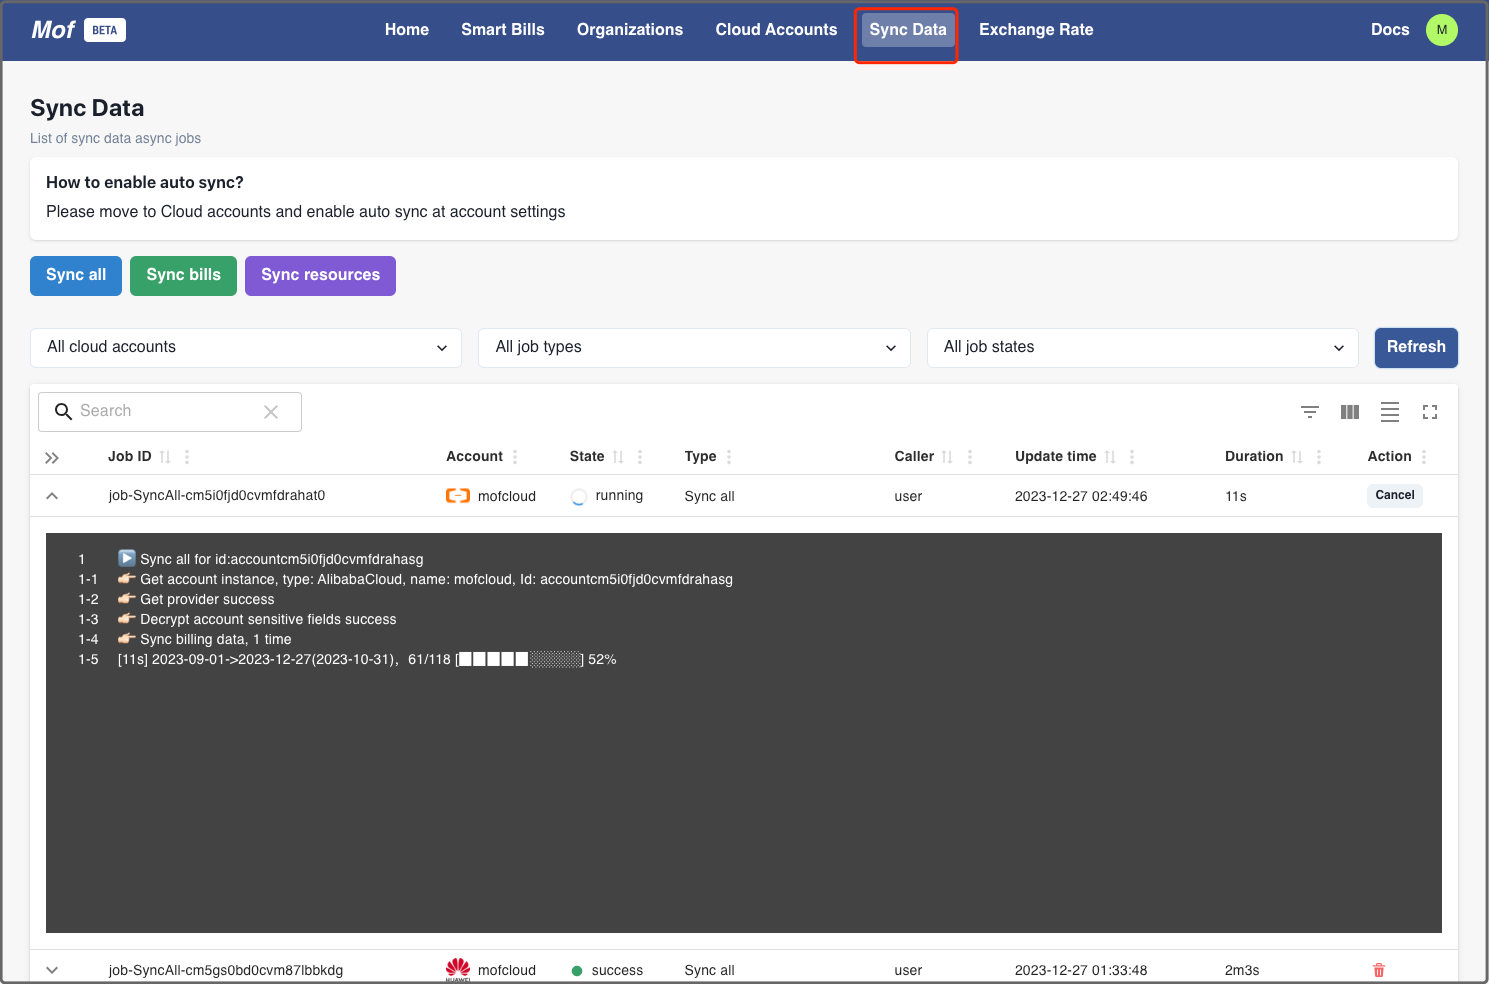
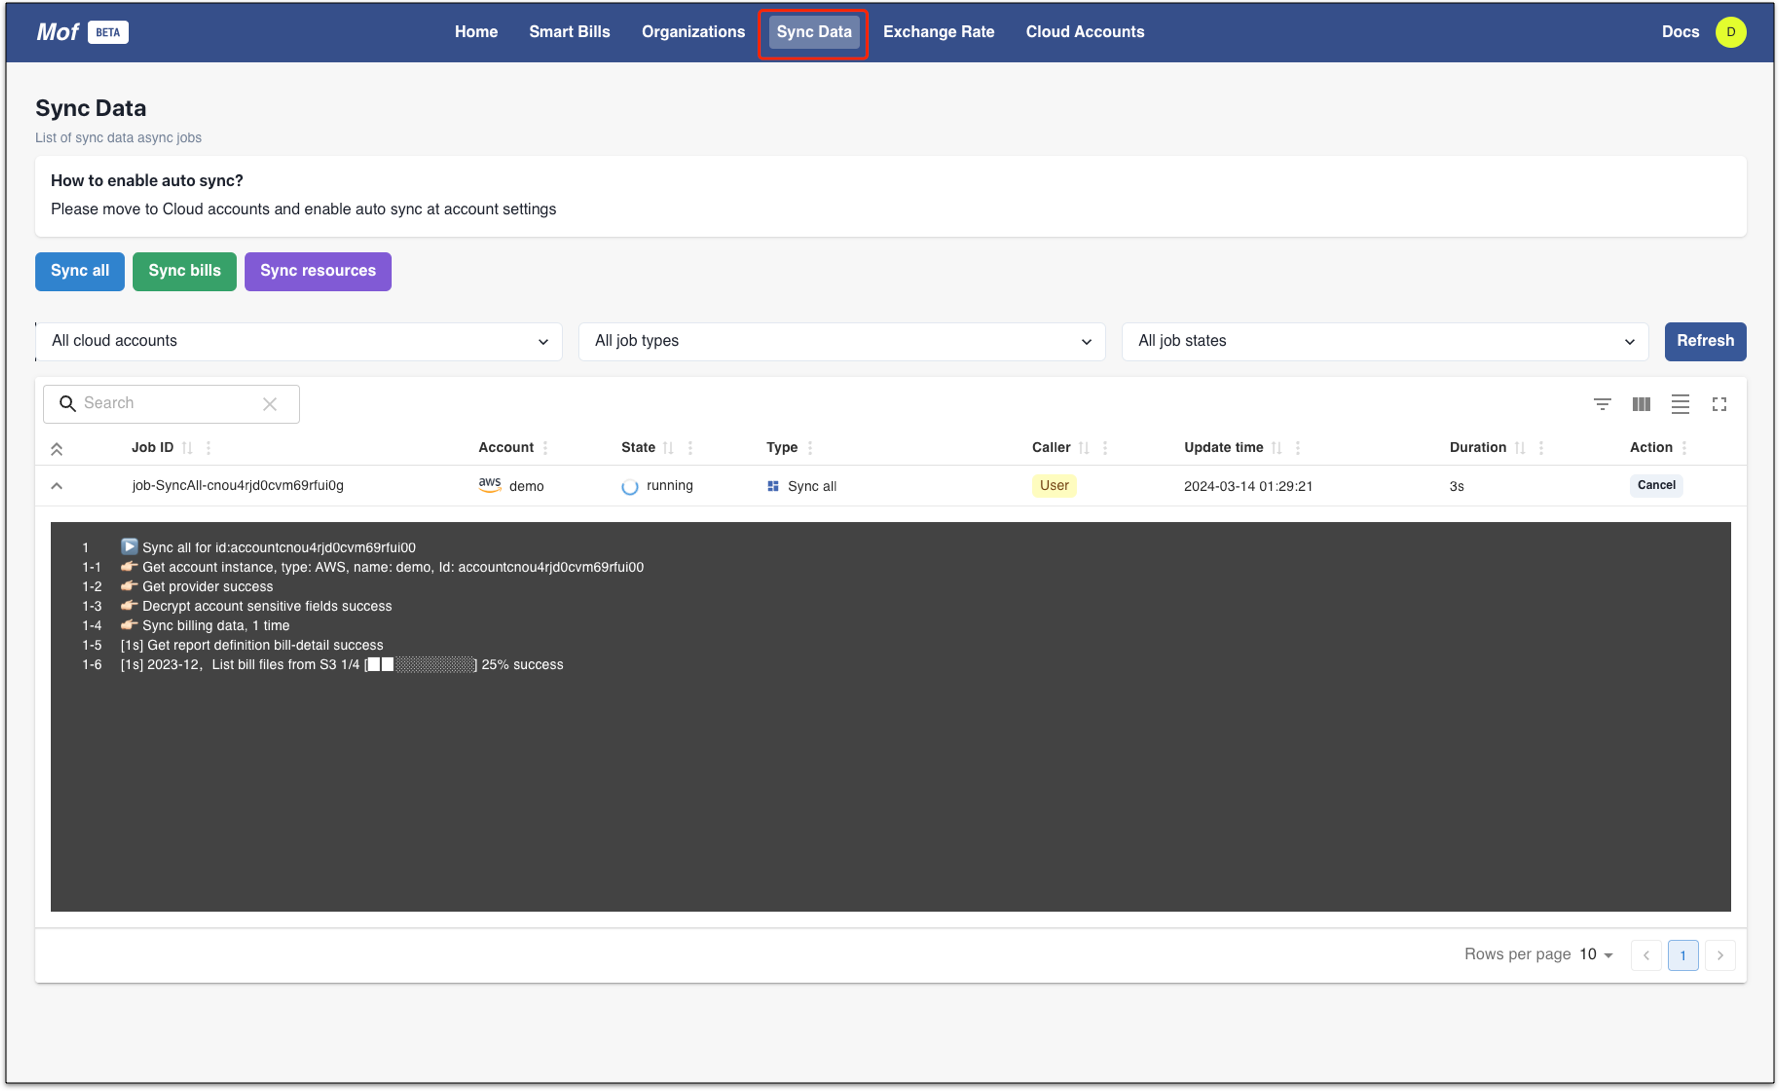
Update getting-started image

diff --git a/docs/getting-started/index.md b/docs/getting-started/index.md
@@ -1,1 +1,120 @@
-## Building...
+## Cloud account
+=== "1: Choose cloud"
+    ![Image title](img/en/add-account-to-choose.png)
+
+=== "2: Fill account info"
+
+    !!! info "Steps"
+        - Choose **Cloud Accounts** -> **Add Cloud Accounts** -> **AWS**
+
+        - Fill info
+            - **Basic info**：Account name can be changed after creation
+            - **Locale**：Currency would be determined if missing from AWS bill, global (USD)，China (CNY) is suppoted
+            - **AK/SK**：Please refer to official docs at [AK/SK](https://support.huaweicloud.com/intl/en-us/usermanual-iam/iam_02_0003.html), permission as bellow:
+            ``` json
+            {
+                "Version": "1.1",
+                "Statement": [
+                    {
+                        "Action": [
+                            "rms:*:list",
+                            "rms:*:get",
+                            "rms:*:getStatus",
+                            "bss:bill:view",
+                            "vpc:vpcs:list",
+                            "vpc:subnets:get",
+                            "evs:volumes:list",
+                            "rds:instance:list",
+                            "ecs:cloudServers:list",
+                            "ces:metricData:list"
+                        ],
+                        "Effect": "Allow"
+                    }
+                ]
+            }
+            ```
+            - **Defualt group by**：System will collect all available groups, it is used for default representation on dashboard
+
+    ![Image title](img/en/add-account-to-fill.png)
+
+
+=== "2: Sync data automatically"
+    !!! info "Check data sync status"
+        Data will be collected automatically, user can check status at **Sync Data**.
+
+        System will collect **3 months** historically data. User can sync historical data by their own on this page. 
+    
+    ![Image title](img/en/sync-data.png)
+
+## Smart Bills
+As soon as data finished syncing, bill analysis can be viewed on **Smart Bills**.
+
+!!! info "Functionality"
+    **Bill group**，**Filter**，**Bill downloads** are common to all tabs.
+
+    - **Smart**
+        - Abnormal chart, Group bills, Resource bills, Mofis report
+    - **Monthly**
+        - Monthly bill, Bill estimation
+    - **History**
+        - Historical bills，Mofis analysis
+    - **Server Analysis**
+        - Utilization, Server bills, Configuration, Monitoring data, Mofis report
+
+### Smart
+!!! example "Check abnormal bill and root case"
+    1. Abnormal **Unit** by **Abnormal chart** & **Mofis report**
+    2. Resource level abnormal by **Resource bills**
+    3. Root cause by **Resource usage**
+
+=== "Abnormal bills"
+
+    ![Image title](img/en/smart-bill-1.png)
+
+=== "Resource bills"
+
+    ![Image title](img/en/smart-bill-2.png)
+
+=== "Resource usage"
+
+    ![Image title](img/en/smart-bill-3.png)
+
+### Monthly
+Monthly group bills and estimation
+
+![Image title](img/en/monthly-bill.png)
+
+### History
+![Image title](img/en/bill-trend.png)
+
+## Download bills
+Download bills as Excel format by clicking **Download bills**
+
+![Image title](img/en/download-bill.png)
+
+![Image title](img/en/download-bill-excel.png)
+
+## Server analysis
+!!! example "Find out【Unused】&【Low utilized】"
+    1. 【Unused】&【Low utilized】by server groups status and utilization from **Overview**
+    2. Related util metrics(bill item) from **Monitor**
+    3. Check historical reason via **Resource Bills**
+    4. Check resource details via **Resource Config**
+
+=== "Overview"
+
+    ![Image title](img/en/server-1.png)
+
+=== "Monitor（Bill item）"
+
+    ![Image title](img/en/server-2.png)
+
+=== "Bills"
+
+    ![Image title](img/en/server-4.png)
+
+=== "Config"
+
+    ![Image title](img/en/server-3.png)
+
+

diff --git a/docs/getting-started/index.zh.md b/docs/getting-started/index.zh.md
@@ -1,17 +1,43 @@
 ## 添加云账号
-=== "1: 添加云账号"
+=== "1: 选择云"
     ![Image title](img/zh/add-account-to-choose.png)
 
+=== "2: 账号信息"
+
     !!! info "步骤"
-        - 选择 **云账号** -> **添加供应商** -> **华为云**
+        - 选择 **云账号** -> **添加云账号** -> **华为云**
 
         - 填写相关信息
             - **基本信息**：账号名称用于展示，可以重名，建议使用不同的名称
             - **地域**：如果华为云的结算货币未知，系统会使用地域确定货币种类，目前支持全球（美元），中国（人民币）
-            - **访问密钥**：请参考官方文档获取[访问密钥](https://help.aliyun.com/document_detail/268244.html)，权限请点击 <img src="https://raw.githubusercontent.com/FortAwesome/Font-Awesome/6.x/svgs/solid/question.svg" width="8" height="8">
+            - **访问密钥**：请参考官方文档获取[访问密钥](https://support.huaweicloud.com/usermanual-iam/iam_02_0003.html)，权限如下:
+            ``` json
+            {
+                "Version": "1.1",
+                "Statement": [
+                    {
+                        "Action": [
+                            "rms:*:list",
+                            "rms:*:get",
+                            "rms:*:getStatus",
+                            "bss:bill:view",
+                            "vpc:vpcs:list",
+                            "vpc:subnets:get",
+                            "evs:volumes:list",
+                            "rds:instance:list",
+                            "ecs:cloudServers:list",
+                            "ces:metricData:list"
+                        ],
+                        "Effect": "Allow"
+                    }
+                ]
+            }
+            ```
             - **默认统计维度**：系统收集所有纬度的数据，默认纬度用于统计所有云厂商的成本，不影响数据准确性
 
-=== "2: 自动收集数据"
+    ![Image title](img/zh/add-account-to-fill.png)
+
+=== "3: 自动收集数据"
     !!! info "查看数据同步过程"
         账号添加完成之后，系统会立刻开始收集数据，可以在**数据同步**中查看。
     
@@ -23,12 +49,12 @@
 等数据同步完成之后，可以在**智能账单**中查看分析报告。
 
 !!! info "功能"
-    **账单分类**，**账单条件过滤**，**下载账单为**通用功能。
+ **账单分类**，**账单条件过滤**，**下载账单为**通用功能。
     
     - **智能月账单**
         - 异动图，分类账单详情，资源账单详情，Mofis 智能分析
     - **月账单**
-        - 月账单分类图，账单预估，
+        - 月账单分类图，账单预估
     - **历史账单**
         - 账单趋势图，Mofis 智能分析
     - **服务器分析**
